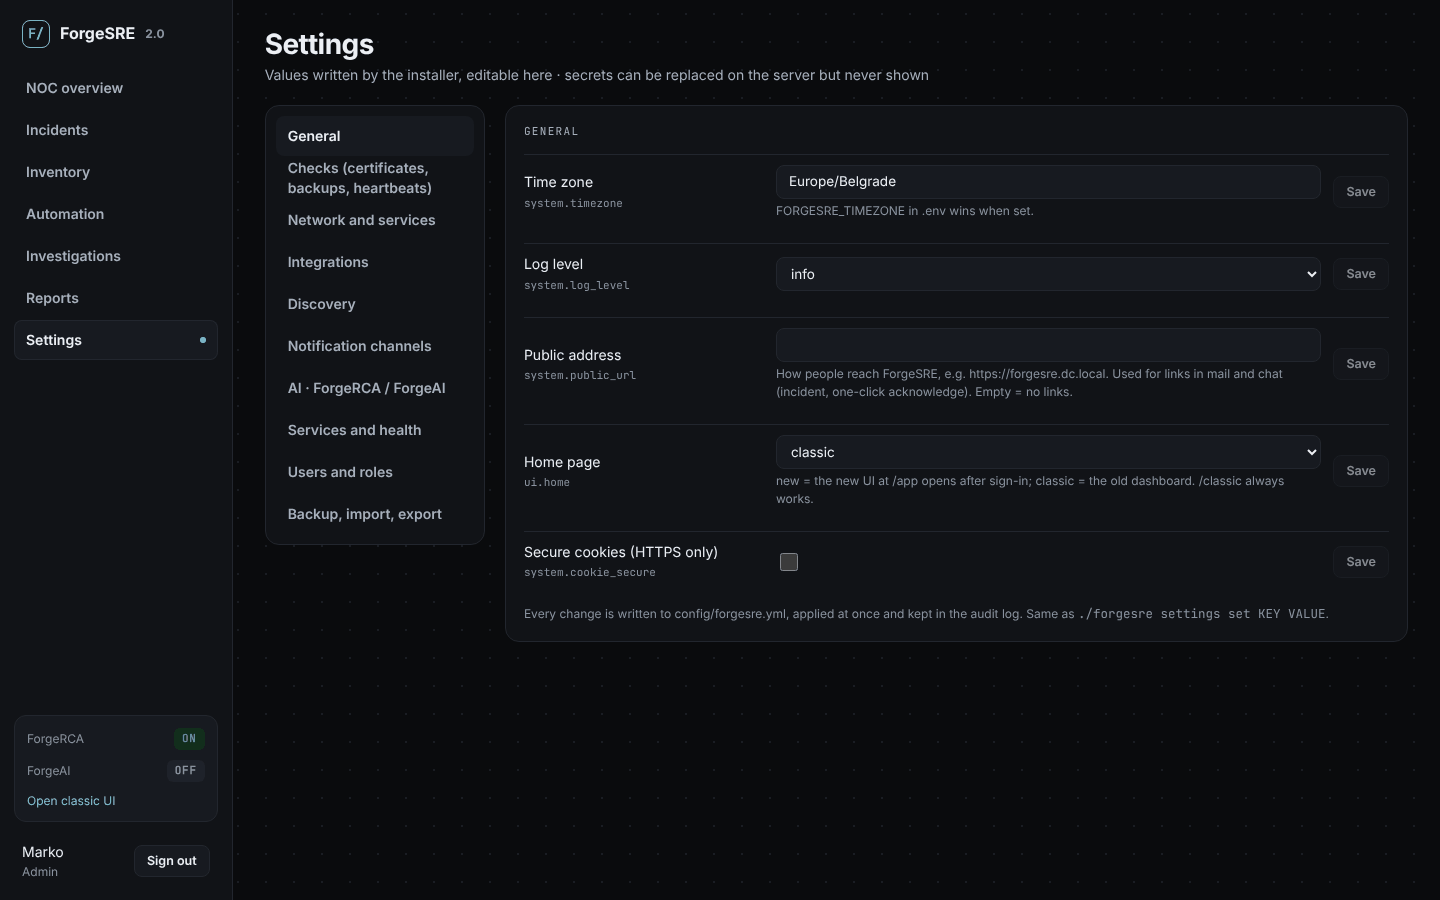
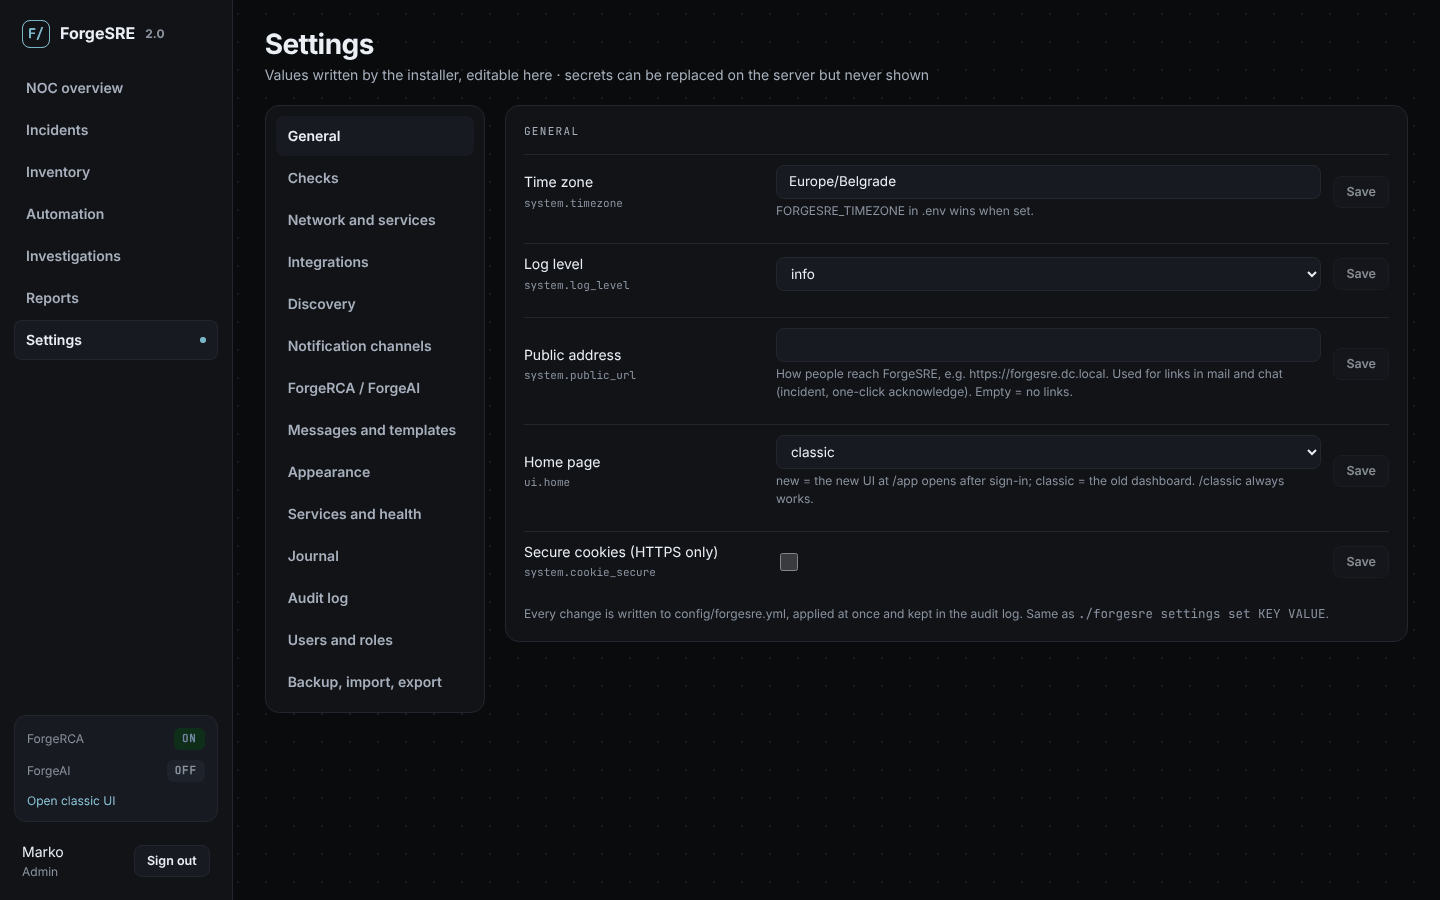
docs: fresh screenshots, Add devices, Integrations and Messages pages
Claude-Session: https://claude.ai/code/session_01K9hus2JZBeXGjiRoAgeJJH

diff --git a/scripts/screenshots.py b/scripts/screenshots.py
@@ -35,7 +35,11 @@ PAGES = [
     ("automation-escalation", "/app/automation", "role=tab[name='Escalation']"),
     ("investigations", "/app/investigations", None),
     ("reports", "/app/reports", None),
+    ("inventory-add", "/app/inventory/add", None),
     ("settings", "/app/settings", None),
+    ("settings-integrations", "/app/settings", "role=button[name='Integrations']"),
+    ("settings-messages", "/app/settings", "role=button[name='Messages and templates']"),
+    ("settings-appearance", "/app/settings", "role=button[name='Appearance']"),
 ]
 
 

diff --git a/docs/guide/06-admin.md b/docs/guide/06-admin.md
@@ -22,6 +22,8 @@ demoted, so you cannot lock yourself out.
 One section per area: general, checks, network, integrations, discovery, notification
 channels, ForgeRCA / ForgeAI, messages and templates, appearance, services, users, backup.
 
+![Integrations](../images/ui-settings-integrations.png)
+
 **Integrations** has a card for each source (Zabbix, GLPI, LibreNMS, NetBox, Kubernetes) and
 each part of the monitoring stack (Prometheus, Alertmanager, Loki, Alloy, Grafana, SNMP exporter,
 the ForgeAI model): status, last sync, **Open** to go to its own web page, **Test connection**,

diff --git a/docs/guide/04-alerts-and-noise.md b/docs/guide/04-alerts-and-noise.md
@@ -50,6 +50,8 @@ The *default-warning* policy cannot be removed; rules from a deleted policy fall
 
 ## What people receive
 
+![Messages and templates](../images/ui-settings-messages.png)
+
 **Settings › Messages and templates** shows, for any incident, exactly what goes out: the
 alert mail (subject, the one-click **Acknowledge** button, the asset's owner, contact and
 phone), the Slack, Teams and Discord card for *opened*, *escalated* and *resolved*, and the

diff --git a/docs/guide/03-assets.md b/docs/guide/03-assets.md
@@ -12,6 +12,8 @@ Engineer.
 **Inventory › Add devices** is the way in. It does not stop at "saved": it shows you that
 metrics and alarms really arrive.
 
+![Add devices](../images/ui-inventory-add.png)
+
 **One device**
 
 1. Enter the IP. For switches, routers, firewalls and storage, give the SNMP credentials:
